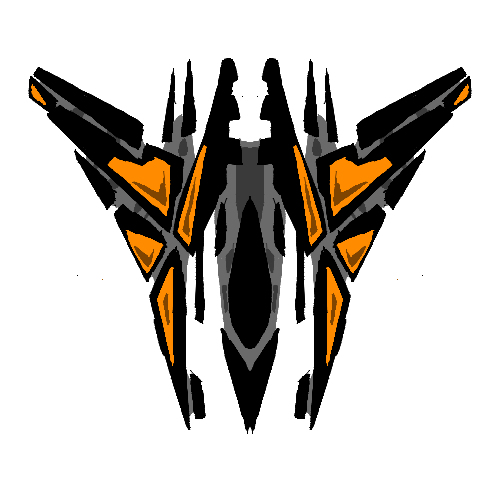
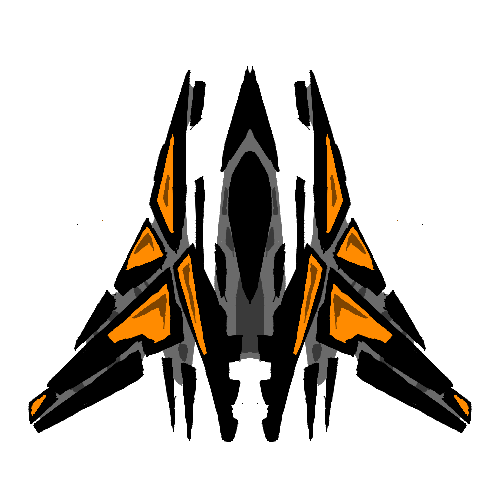
Jogo funcionando, balas ainda não andam na diagonal

diff --git a/scripts/game.js b/scripts/game.js
@@ -14,9 +14,8 @@ var graus = 0,
 $(document).ready(function() {
     //colocando a nave na tela
     $('#nave').append($('<img/>').attr({
-        src: 'images/nave.png',
-        style: 'width:50px;height:50px',
-        class: 'naoSelecionavel'
+        src: 'images/nave2.png',
+        style: 'width:50px;height:50px'
     }));
 });
 
@@ -32,10 +31,10 @@ function geraAsteroide() {
     //é adicionado o asteróide na tela na posição sorteada
     $('body').append($('<img/>').attr({
         src: 'images/asteroide.png',
-        style: 'width: ' + size + 'px; height: ' + size + 'px; left: ' + marginl + 'px; top: ' + margint + 'px; position: absolute',
-        class: 'naoSelecionavel estrela'
+        style: 'width: ' + size + 'px; height: ' + size + 'px; left: ' + marginl + 'px; top: ' + margint + 'px;',
+        class: 'estrela'
     }));
-    pedras++;
+    pedras = $('.estrela').length;
     //definindo um número máximo de asteróides
     if (pedras == 10) {
         clearInterval(intervalAsteroides);
@@ -56,29 +55,19 @@ function atira() {
 
     $('body').append($('<img/>').attr({
         src: 'images/bala.png',
-        style: 'left: ' + (parseFloat(x) + 15) + 'px; top: ' + (parseFloat(y) - 30) + 'px; transform: rotate(' + parseFloat(graus) + 'deg ); margin-bottom: 500px',
-        class: 'naoSelecionavel bala'
+        style: 'left: ' + (x + 15) + 'px; top: ' + (y - 30) + 'px; transform: rotate(' + graus + 'deg);',
+        class: 'bala'
     }));
-
-    //logo após adicionar as balas, as balas são movimentadas
-    function movimentaBala(width, height, i) {
-        $('.bala:eq(' + i + ')').attr('style', 'top: ' + parseFloat(height) + 'px; left: ' + (parseFloat(width) + 8) + 'px;');
-    }
-
-    var ctrl = y;
-    var width = x;
-    var intervalBala = setInterval(function() {
-        if (ctrl > -80) {
-            ctrl--;
-            for (var i = 0; i < $('.bala').length; i++) {
-                movimentaBala(width, ctrl, i);
-            }
-        } else {
-            $('.bala:eq(0)').remove();
-            clearInterval(intervalBala);
-        }
-    }, 1);
 }
+
+setInterval(function() {
+    $('.bala').each(function() {
+        var top = this.getBoundingClientRect().top - 2;
+        $(this).css('top', top + 'px');
+        if (top < -80)
+            $(this).remove();
+    });
+}, );
 
 window.onkeydown = function(e) {
     //pegando a tecla pressionada e rodando a nave
@@ -99,7 +88,6 @@ window.onkeyup = function(e) {
     if (key == 65)
         left = undefined;
 }
-
 
 setInterval(function() {
     //interval que rotaciona a nave
@@ -152,10 +140,6 @@ function verificaBatida() {
 }
 
 function verificaBatidaTiro() {
-
-    var bala = $(".bala");
-    var asteroides = $(".estrela");
-
     var rangeIntersect = function(min0, max0, min1, max1) {
         return Math.max(min0, max0) >= Math.min(min1, max1) && Math.min(min0, max0) <= Math.max(min1, max1)
     }
@@ -164,27 +148,24 @@ function verificaBatidaTiro() {
         return rangeIntersect(r0.left, r0.right, r1.left, r1.right) && rangeIntersect(r0.top, r0.bottom, r1.top, r1.bottom)
     }
 
-    for (i = 0; i <= bala.length; i++) {
-        var BBoxA = bala[i].getBoundingClientRect();
-        for (i = 0; i <= asteroides.length; i++) {
-            var BBoxB = asteroides[i].getBoundingClientRect();
-            asteroides.each(function() {
-                if (rectIntersect(BBoxA, BBoxB)) {
-                    pontos++;
-                    $('.estrela:eq(' + i + ')').attr('src', 'images/explosao.gif-c200');
-                    var acm = 0;
-                    var intervalMorteAsteroide = setInterval(function() {
-                        acm++;
-                        if (acm >= 40) {
-                            $('estrela:eq(' + i + ')').remove();
-                            clearInterval(intervalMorteAsteroide);
-                        }
-                    }, 10);
+    $(".bala").each(function() {
+        var BBoxA = this.getBoundingClientRect();
+        $(".estrela").each(function() {
+            var BBoxB = this.getBoundingClientRect();
+            if (rectIntersect(BBoxA, BBoxB)) {
+                pontos++;
+                if (pontos <= 1000) {
+                    $(this).attr('src', 'images/explosao.gif-c200').addClass("explodiu");
+                    setTimeout(function() {
+                        $('.explodiu').remove();
+                    }, 400);
                     $('#pontos').html('Pontuação: ' + pontos);
+                } else {
+                    //aqui vai surgir o boss 
                 }
-            });
-        }
-    }
+            }
+        });
+    });
 }
 
 intervalColisao = setInterval(verificaBatida, 200);

diff --git a/css/game.css b/css/game.css
@@ -1,6 +1,14 @@
+* {
+    cursor: none;
+    user-select: none;
+    -moz-user-select: none;
+    -webkit-user-drag: none;
+    -webkit-user-select: none;
+    -ms-user-select: none;
+}
+
 body {
     background-image: url(../images/fundo.jpg);
-    cursor: none;
     overflow: hidden;
 }
 
@@ -10,15 +18,8 @@ body {
 }
 
 .estrela {
-    animation: orbita 4s linear infinite;
-}
-
-.naoSelecionavel {
-    user-select: none;
-    -moz-user-select: none;
-    -webkit-user-drag: none;
-    -webkit-user-select: none;
-    -ms-user-select: none;
+    position: absolute;
+    animation: orbita 2s linear infinite;
 }
 
 .bala {
@@ -57,12 +58,6 @@ body {
     }
     to {
         background-color: red;
-    }
-}
-
-@keyframes moveBala {
-    100% {
-        margin-top: 0px;
     }
 }
 
